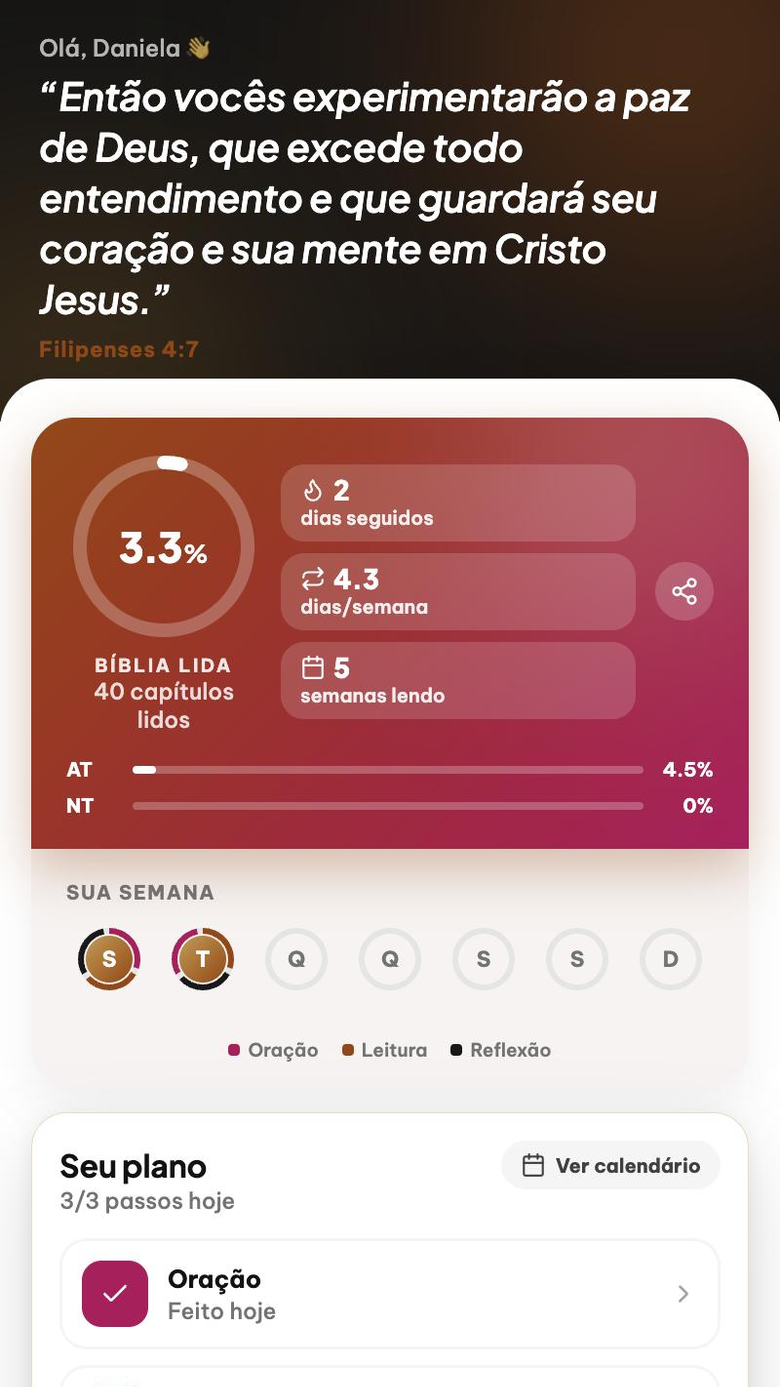
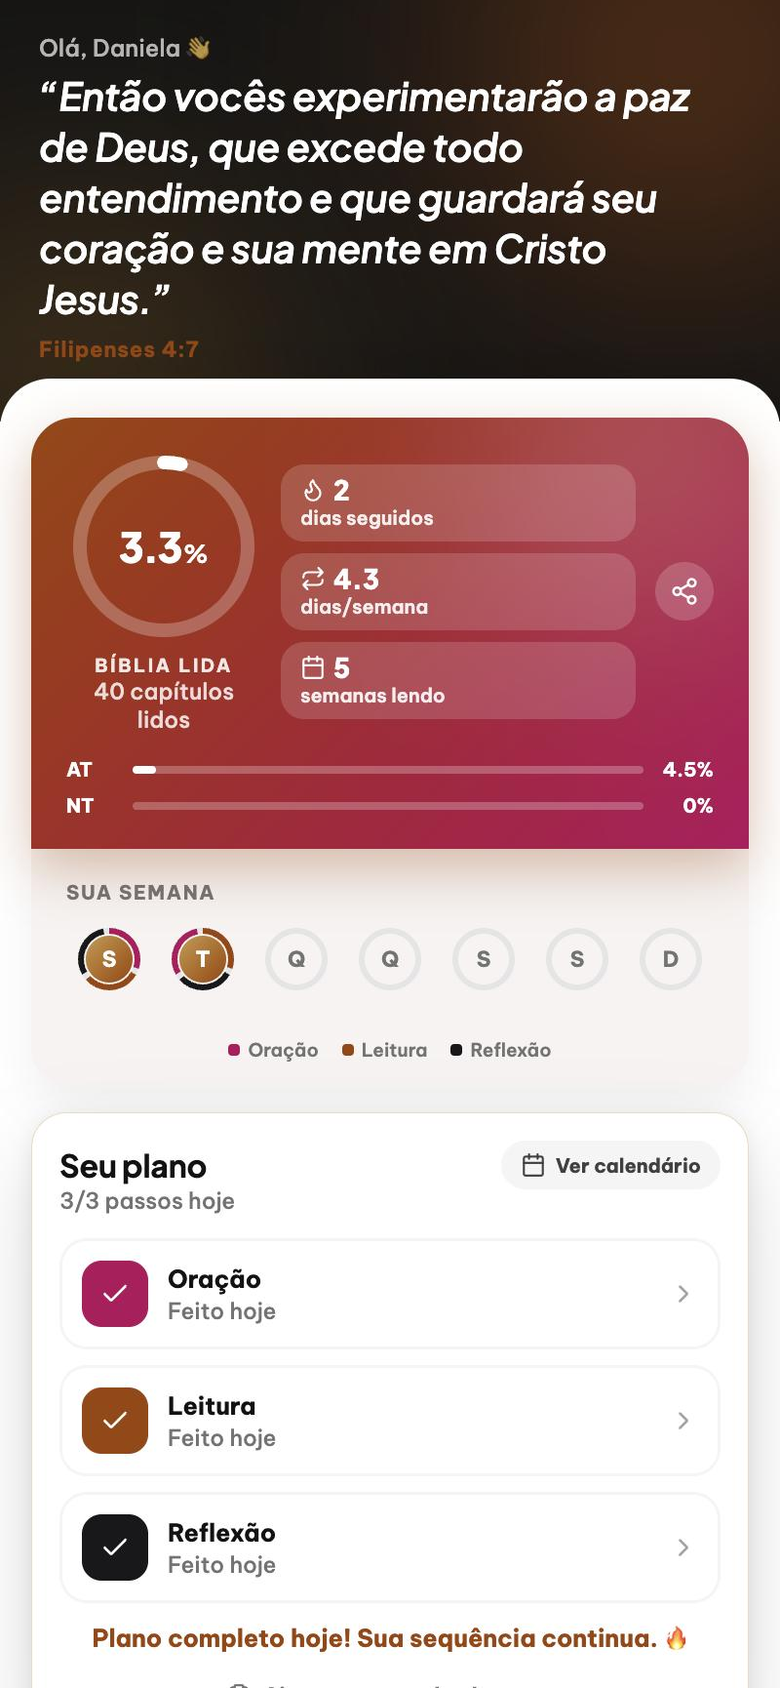
Site: todos os screenshots no mesmo tamanho (780x1688)
O do hero (screenshot-inicio) estava recortado em 780x1387 (proporção
iPhone SE) e os 5 do showcase em 780x1688. Agora os 7 estão em 780x1688.
Pra o celular do hero não voltar a transbordar a dobra, .phone-lg
265px -> 240px (bem perto do .phone-sm 220px do showcase).

🤖 Generated with [Claude Code](https://claude.com/claude-code)

diff --git a/src/index.css b/src/index.css
@@ -167,7 +167,7 @@ img { display: block; max-width: 100%; }
 }
 .phone:hover { transform: rotateY(0deg) rotateX(0deg) rotateZ(0deg); }
 .phone-sm { width: 220px; }
-.phone-lg { width: 265px; }
+.phone-lg { width: 240px; }
 .phone-glow {
   position: absolute; inset: -46px; z-index: -1;
   background: radial-gradient(closest-side, rgba(157,67,0,.22), rgba(157,67,0,.05) 55%, transparent 75%);
